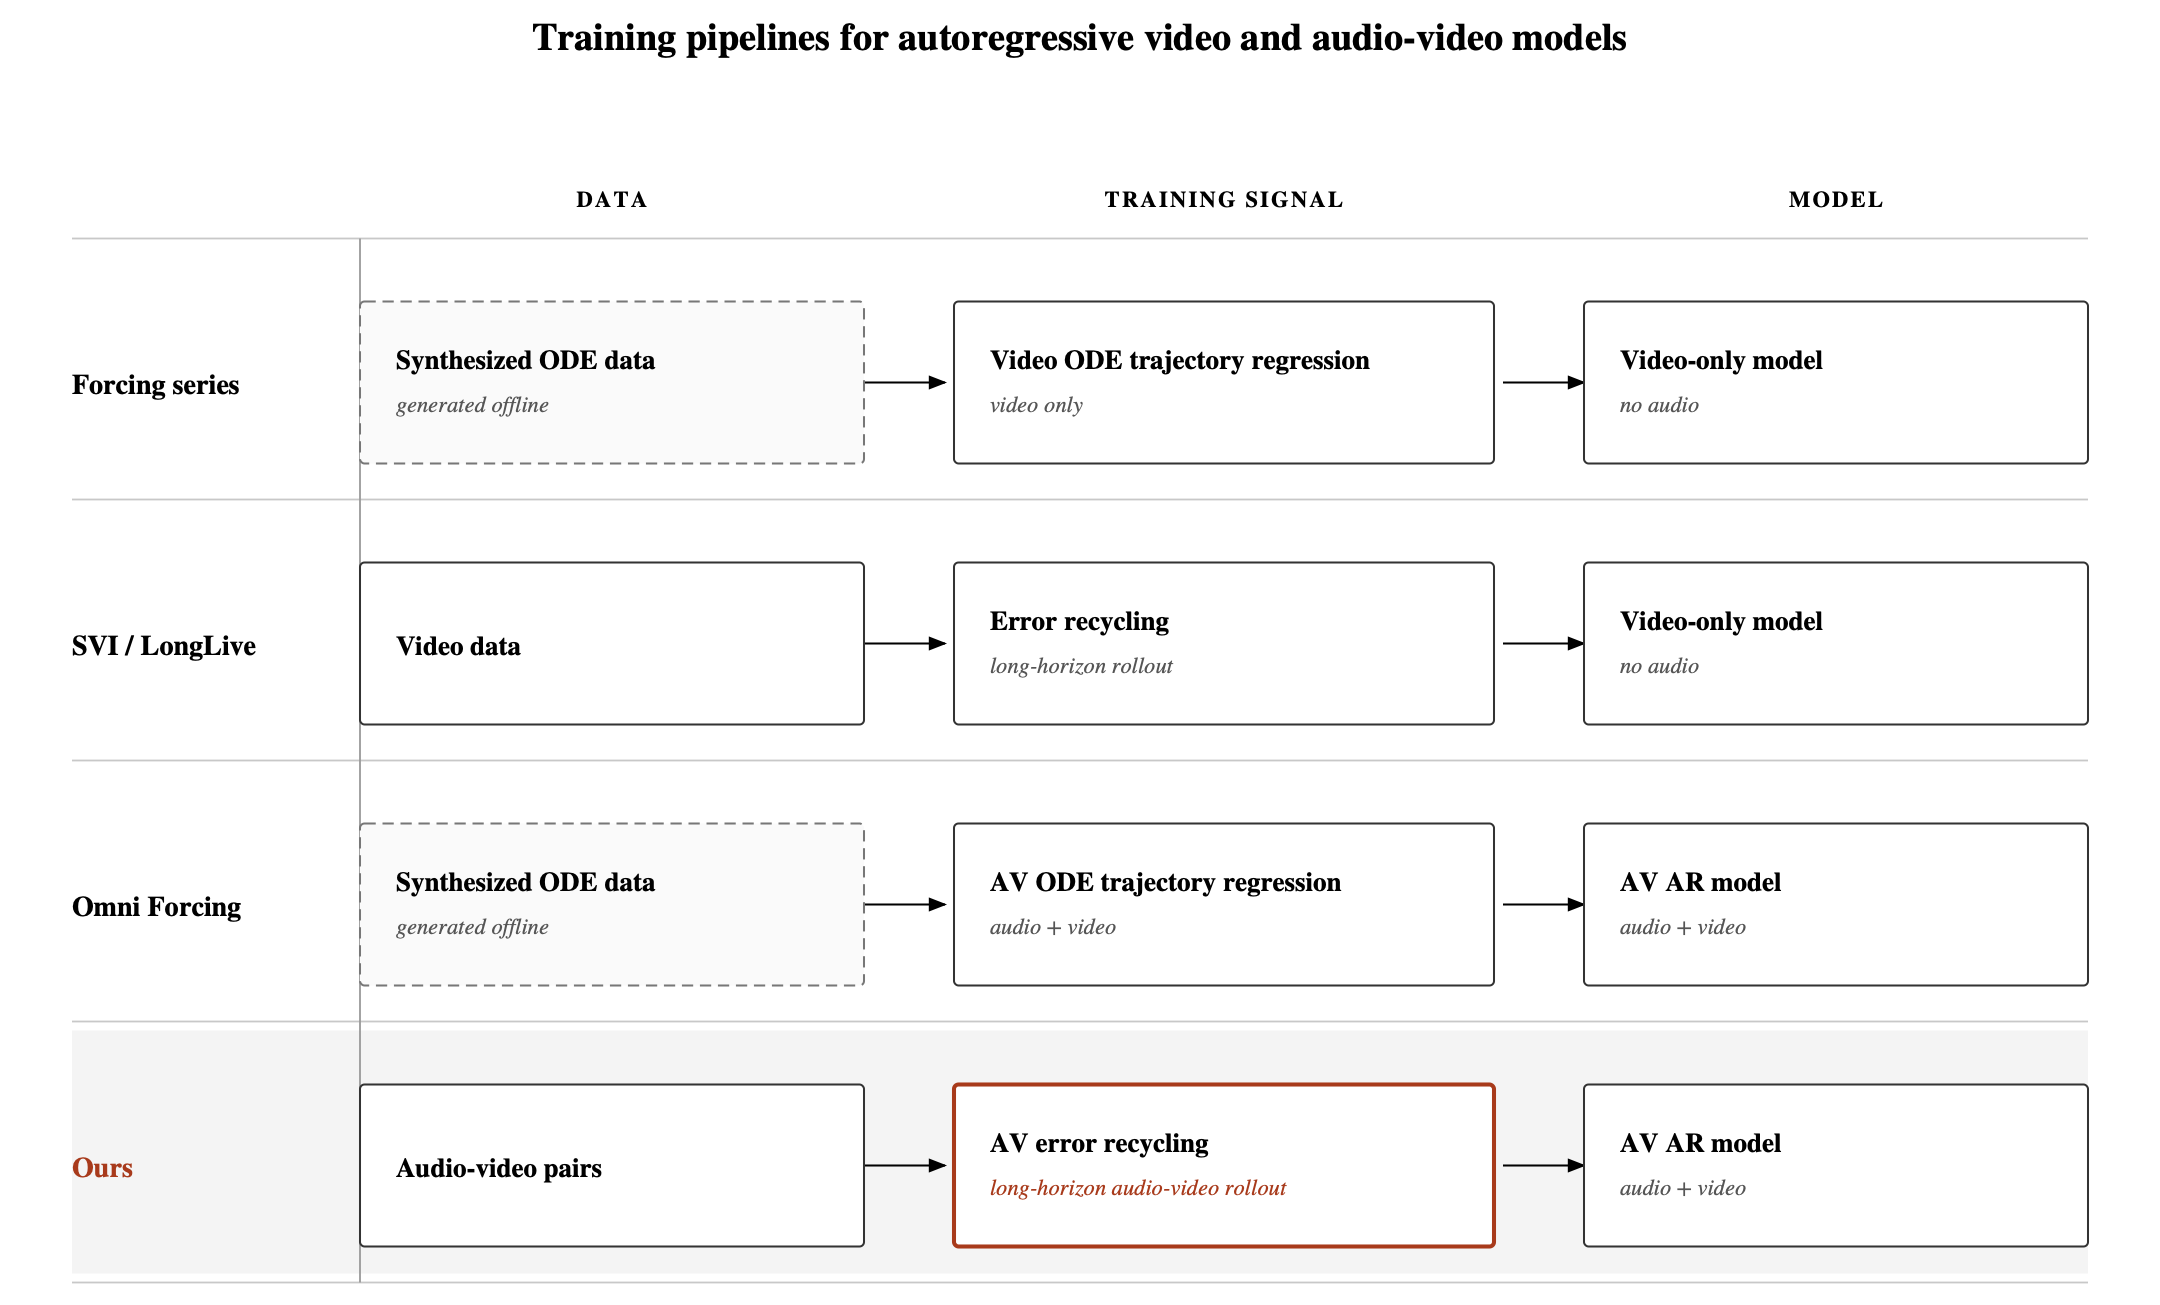
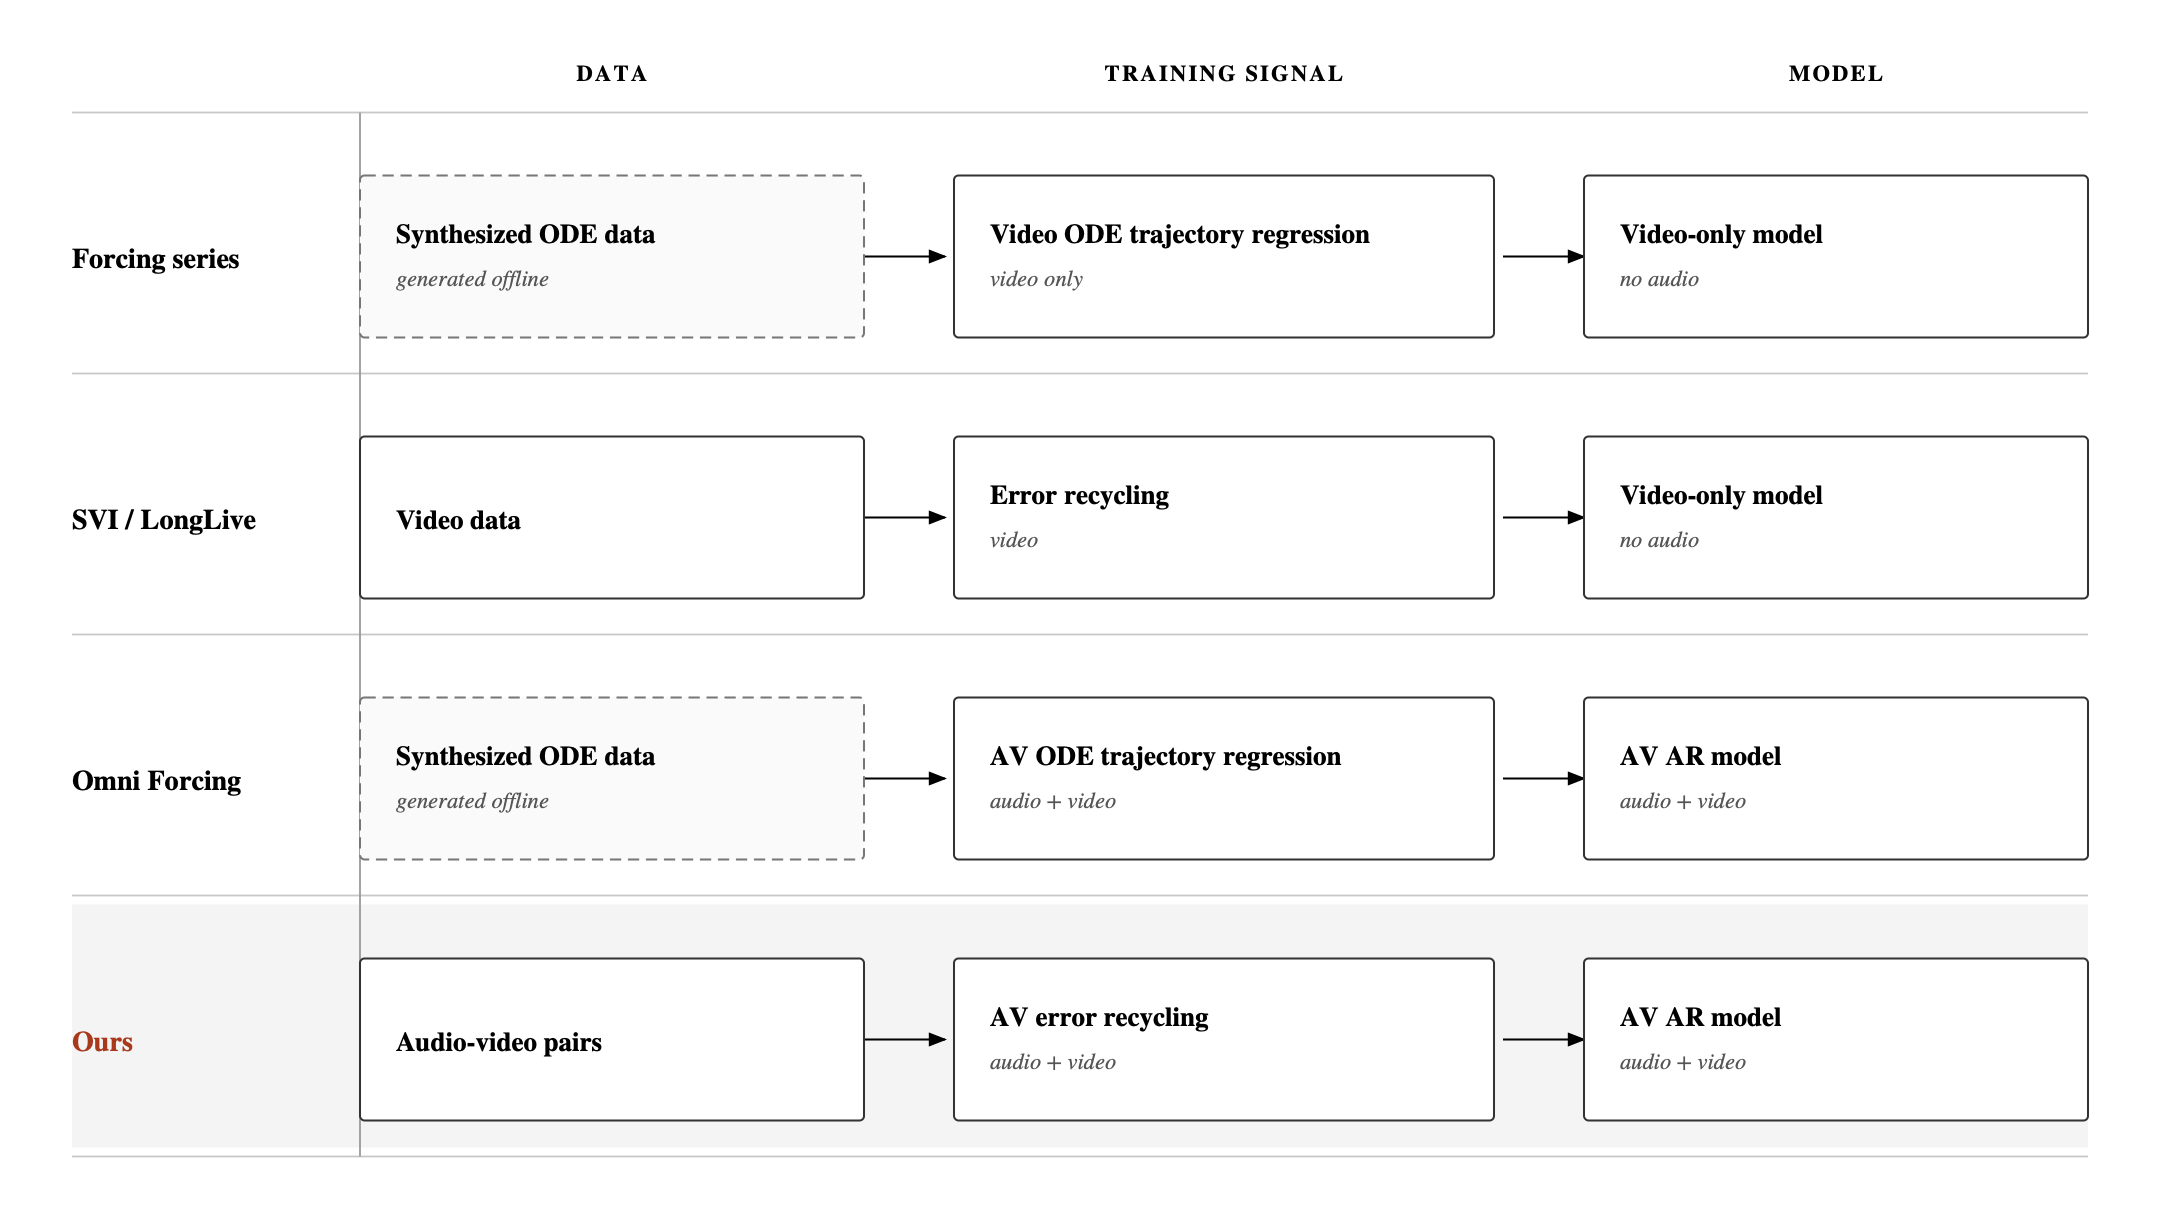
Update results from the latest paper revision
Report latency with the paper's three-metric framing (generator-only
TTFC, end-to-end TTFC, full-clip runtime) instead of TTFC/FPS, refresh
the abstract and contribution text, and redraw the error-recycling
figure. Drop the stale keyboard-seek note from the README.

diff --git a/index.html b/index.html
@@ -4,7 +4,7 @@
 <meta charset="utf-8">
 <meta name="viewport" content="width=device-width, initial-scale=1">
 <title>LTX2.5-SVS — Toward Streaming Joint Singing and Video Generation</title>
-<meta name="description" content="LTX2.5-SVS: toward streaming joint singing and video generation — 0.89 s time-to-first-chunk at 22.7 FPS on a single A800.">
+<meta name="description" content="LTX2.5-SVS: toward streaming joint singing and video generation — 0.87 s generator-only time-to-first-chunk and 8.95 s end-to-end for a 5 s clip on a single A800.">
 <meta property="og:title" content="LTX2.5-SVS — Toward Streaming Joint Singing and Video Generation">
 <meta property="og:description" content="To our knowledge, the first system that jointly generates singing voice and video, and does so as a streaming generator with block-causal inference.">
 <meta property="og:image" content="assets/posters/en-5s-01.jpg">
@@ -264,6 +264,13 @@
   tbody tr.ours td:first-child { background: var(--accent-soft); }
   thead th.ours-col { color: var(--accent-strong); }
   .best { font-weight: 700; }
+  /* Fifteen columns: tighten cells so the efficiency block fits without scrolling on desktop. */
+  table.compact { font-size: 12.5px; }
+  table.compact thead th { padding: 12px 5px; font-size: 10.5px; letter-spacing: 0; }
+  table.compact tbody td { padding: 10px 5px; }
+  table.compact tbody td:first-child, table.compact thead th:first-child { padding-left: 12px; }
+  table.compact thead tr:first-child th { font-size: 12px; }
+  @media (min-width: 1160px) { table.compact { font-size: 13px; } }
   .table-note { font-size: 12.5px; color: var(--text-muted); margin-top: 10px; line-height: 1.5; }
   .table-title { font-size: 14.5px; font-weight: 650; margin: 32px 0 10px; }
 
@@ -324,19 +331,19 @@
 
     <div class="kpis">
       <div class="kpi">
-        <div class="kpi-label">Time to first chunk</div>
-        <div class="kpi-value">0.89<small>s</small></div>
-        <div class="kpi-note"><span class="vs">vs 105 s</span> · 118× sooner than the dense baseline</div>
+        <div class="kpi-label">Generator time to first chunk</div>
+        <div class="kpi-value">0.87<small>s</small></div>
+        <div class="kpi-note"><span class="vs">vs 110.1 s</span> denoising for the dense baseline</div>
       </div>
       <div class="kpi">
-        <div class="kpi-label">Streaming throughput</div>
-        <div class="kpi-value">22.7<small>FPS</small></div>
-        <div class="kpi-note"><span class="vs">vs 1.96 FPS</span> · 11.6× faster, single A800</div>
+        <div class="kpi-label">End-to-end first chunk</div>
+        <div class="kpi-value">2.16<small>s</small></div>
+        <div class="kpi-note"><span class="vs">70× sooner</span> than the dense baseline (151.6 s)</div>
       </div>
       <div class="kpi">
-        <div class="kpi-label">Training horizon → rollout</div>
-        <div class="kpi-value">5<small>s</small> → 60<small>s+</small></div>
-        <div class="kpi-note">Minute-level audio-video from 5 s clips</div>
+        <div class="kpi-label">5 s clip, end to end</div>
+        <div class="kpi-value">8.95<small>s</small></div>
+        <div class="kpi-note"><span class="vs">16.9× faster</span> than the dense baseline (151.6 s)</div>
       </div>
     </div>
   </div>
@@ -361,16 +368,16 @@
       </p>
       <p class="abstract">
         We evaluate the generated singing voice and video separately. On the GMO-SVS test set, our singing module approaches
-        specialist-level performance. For audio-video generation, we compare against the released LTX-2.5 inference stacks our
-        system starts from: an audio-driven pipeline that receives the singing track as input, and a Text-to-AV pipeline with no
-        singing signal. Our model attains visual and motion quality superior to both baselines, and its lip-sync confidence
-        approaches the audio-driven baseline. The Text-to-AV baseline scores higher on text alignment, and because that dimension
-        dominates the aggregate VideoAlign score it ranks above ours there — a consequence of our model specializing in close-up
-        singing portraits rather than the wider scenes the prompt describes.
+        specialist-level performance. For audio-video generation, we compare against two released LTX-2.5 baselines on a shared
+        internal prompt set using VBench, VideoAlign, and SyncNet. Our model attains superior visual and motion quality, leads
+        on imaging quality and dynamic degree, and its lip-sync confidence (LSE-C = 5.75) closely approaches the audio-driven
+        baseline (5.85) while both far exceed the text-to-AV baseline (2.91). The text-to-AV baseline leads on text alignment
+        (1.423 vs. 0.361); that gap reflects our specialization in close-up singing portraits rather than the wider scenes the
+        prompt describes.
       </p>
       <p class="abstract">
-        Inference is measurably streaming on a single NVIDIA A800 80&nbsp;GB: the first ≈1&nbsp;s chunk completes in 0.89&nbsp;s
-        (the dense baseline produces no output until fully denoised, 105&nbsp;s), at 22.7&nbsp;FPS — an 11.6× throughput advantage.
+        On a single A800 in bf16, the generator produces its first ≈1&nbsp;s chunk in 0.87&nbsp;s at 512×512, and full
+        end-to-end inference for a 5&nbsp;s clip takes 8.95&nbsp;s versus 151.6&nbsp;s for the dense baseline (16.9×).
       </p>
       <div class="contrib">
         <article>
@@ -385,8 +392,8 @@
         </article>
         <article>
           <div class="num">3</div>
-          <h3>Streaming at 22.7 FPS</h3>
-          <p>0.89 s time-to-first-chunk and 22.7 FPS on a single NVIDIA A800 — an 11.6× throughput advantage over the dense baseline, with competitive singing quality.</p>
+          <h3>Streaming in 0.87 s</h3>
+          <p>Generator-only first-chunk latency of 0.87 s, and 8.95 s end-to-end for a 5 s clip versus 151.6 s for the dense baseline — 16.9× faster, with competitive singing quality.</p>
         </article>
       </div>
     </div>
@@ -429,14 +436,14 @@
 
       <figure style="margin-top: 34px;">
         <div class="fig-frame">
-          <img src="assets/figures/error_recycling.png" width="2160" height="1305" loading="lazy"
+          <img src="assets/figures/error_recycling.png" width="2160" height="1215" loading="lazy"
                alt="Comparison of training paradigms: the Forcing series, SVI/LongLive, Omni Forcing, and the dual-stream recycling used in this work.">
         </div>
         <figcaption>
           <b>Training paradigms for autoregressive audio-video generation.</b> The video-only Forcing series regresses on
-          synthesized ODE trajectories; SVI / LongLive recycle prediction errors over long-horizon video rollout; Omni
-          Forcing applies the ODE-trajectory recipe to audio and video; our pipeline recycles prediction errors on video and
-          audio jointly, using raw audio-video pairs directly and requiring no ODE synthesis.
+          synthesized ODE trajectories; SVI / LongLive recycle prediction errors and reuse them in training to acquire
+          long-horizon video rollout ability; Omni Forcing applies the ODE-trajectory recipe to audio and video; our pipeline
+          recycles prediction errors on video and audio jointly, using raw audio-video pairs directly and requiring no ODE synthesis.
         </figcaption>
       </figure>
     </div>
@@ -507,20 +514,20 @@
 
       <h3 class="table-title">Audio-visual generation · shared internal prompt set</h3>
       <div class="table-scroll">
-        <table>
+        <table class="compact">
           <thead>
             <tr>
               <th rowspan="2">System</th>
               <th colspan="6">VBench</th>
               <th colspan="4">VideoAlign</th>
               <th>SyncNet</th>
-              <th colspan="2">Efficiency</th>
+              <th colspan="3">Efficiency</th>
             </tr>
             <tr>
               <th>Subject ↑</th><th>Background ↑</th><th>Motion ↑</th><th>Dynamic ↑</th><th>Aesthetic ↑</th><th>Imaging ↑</th>
               <th>VQ ↑</th><th>MQ ↑</th><th>TA ↑</th><th>Overall ↑</th>
               <th>LSE-C ↑</th>
-              <th>TTFC</th><th>FPS ↑</th>
+              <th>TTFC<sub>gen</sub> ↓</th><th>TTFC ↓</th><th>Runtime ↓</th>
             </tr>
           </thead>
           <tbody>
@@ -528,25 +535,26 @@
               <td>Audio-driven baseline</td><td>0.927</td><td>0.942</td><td>0.993</td><td>0.690</td>
               <td class="best">0.592</td><td>61.54</td>
               <td>−0.375</td><td>−0.256</td><td>1.247</td><td>0.616</td>
-              <td class="best">5.85</td><td>—</td><td>—</td>
+              <td class="best">5.85</td><td>—</td><td>—</td><td>—</td>
             </tr>
             <tr>
               <td>Text-to-AV baseline</td><td class="best">0.957</td><td class="best">0.956</td><td class="best">0.994</td><td>0.644</td>
               <td>0.586</td><td>65.55</td>
               <td>0.027</td><td>−0.127</td><td class="best">1.423</td><td class="best">1.323</td>
-              <td>2.91</td><td>105 s</td><td>1.96</td>
+              <td>2.91</td><td>110.1 s</td><td>151.6 s</td><td>151.6 s</td>
             </tr>
             <tr class="ours">
               <td>Ours</td><td>0.898</td><td>0.923</td><td>0.993</td><td class="best">0.900</td>
               <td>0.545</td><td class="best">65.65</td>
               <td class="best">0.235</td><td class="best">0.047</td><td>0.361</td><td>0.643</td>
-              <td>5.75</td><td class="best">0.89 s</td><td class="best">22.70</td>
+              <td>5.75</td><td class="best">0.87 s</td><td class="best">2.16 s</td><td class="best">8.95 s</td>
             </tr>
           </tbody>
         </table>
       </div>
-      <p class="table-note">VBench: subject, background, motion, dynamic, aesthetic, imaging. VideoAlign: visual quality, motion quality, text alignment, overall. LSE-C is SyncNet lip-sync confidence. TTFC and FPS measured on 10-second songs at 512×512 on a single NVIDIA A800. Best values in bold.</p>
-      <p class="table-note"><b>Reading this table.</b> We lead both baselines on visual quality (VQ) and motion quality (MQ), but trail on text alignment (TA). Because TA dominates the aggregate VideoAlign score, the Text-to-AV baseline ranks above us on Overall. Our system concentrates on close-up singing faces rather than the wider scenes the prompts describe — a consequence of the training distribution, not evidence of a general visual advantage.</p>
+      <p class="table-note">VBench: subject, background, motion, dynamic, aesthetic, imaging. VideoAlign: visual quality, motion quality, text alignment, overall. LSE-C is SyncNet lip-sync confidence. Efficiency measured in bf16 on 5-second songs at 512×512 on a single NVIDIA A800: TTFC<sub>gen</sub> is generator-only first-chunk latency, TTFC is end-to-end from prompt text to the first decoded pixels and waveform, and Runtime covers the full clip. The dense baseline has no streaming output, so its TTFC and Runtime both equal the full-clip cost. Best values in bold.</p>
+      <p class="table-note"><b>Reading this table.</b> We lead on visual quality (VQ), motion quality (MQ), dynamic degree, and imaging quality; motion smoothness is essentially tied. We trail on subject/background consistency, aesthetic quality, and text alignment (TA). Because TA dominates the aggregate VideoAlign score, the Text-to-AV baseline ranks above us on Overall — a consequence of close-up-portrait training data, which VideoAlign also favors on VQ/MQ, not evidence of a general visual advantage.</p>
+      <p class="table-note"><b>On the two latency ratios.</b> 151.6 s / 2.16 s ≈ 70× measures the architectural ability to emit a chunk early; 151.6 s / 8.95 s ≈ 16.9× measures the speed difference in producing the full video. The generator-only 0.87 s is the number to read when the text prompt is fixed (encoding cached) and VAE decoding is parallelized.</p>
     </div>
   </section>
 

diff --git a/README.md b/README.md
@@ -75,7 +75,7 @@ browsers but not all). The page falls back to a muted preview if the browser's
 autoplay policy blocks audio.
 
 Each card has a scrub bar along the bottom edge, visible once the clip has been
-started; click or drag it to seek, or focus it and use the arrow keys. Note that
+started; click or drag it to seek. Note that
 Python's `http.server` does **not** answer HTTP Range requests, so seeking in a
 large minute-long clip can feel sluggish locally. GitHub Pages supports Range
 requests, so the deployed site seeks fine. To reproduce that locally, serve the
